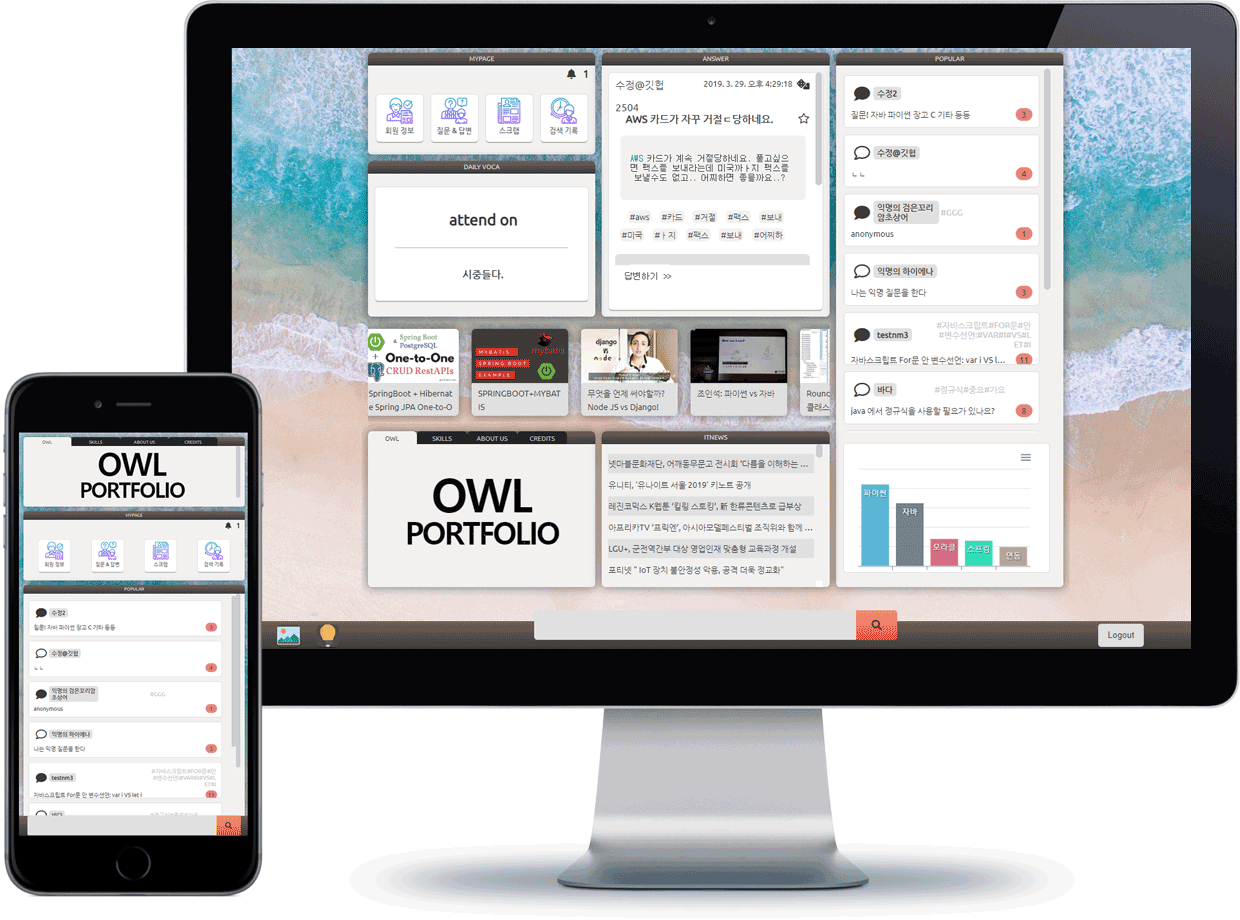
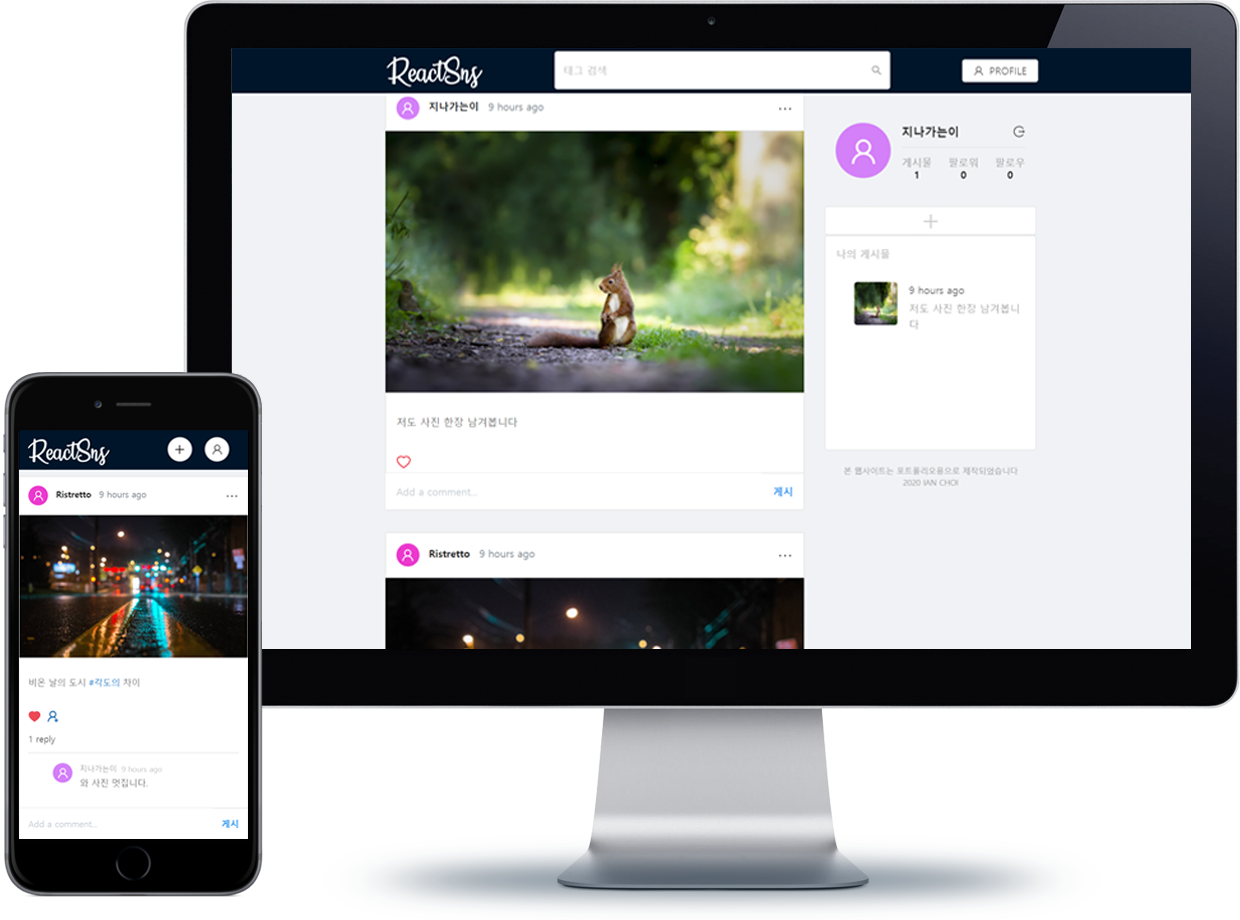
Update : project

diff --git a/index.html b/index.html
@@ -268,7 +268,50 @@
           <div class="project_img project_img1"></div>
           <div class="project_intro project_intro1">
             <div class="project_intro_title">
-              <span class="highlight">01</span>Project OWL
+              <span class="highlight">01</span>React SNS
+            </div>
+            <div class="project_intro_text">
+              <p>
+                심플한 SNS 사이트입니다.<br />
+                이미지 업로드를 비롯한 CRUD가 가능한 SPA입니다.<br />
+              </p>
+              <p>
+                <span>참여 인원</span>1 명<br />
+                <span>개발 기간</span>19.10 ~ 19.12<br />
+              </p>
+              <p>
+                <span class="highlight">Client</span>React, Redux, Next.js<br />
+                <span class="highlight">Server</span>Node.js, Sequelize, MySql,
+                AWS<br />
+              </p>
+              <div class="project_intro_button_box">
+                <div
+                  class="project_intro_button"
+                  onclick="youtube_on('om3f3AuP0Tc')"
+                >
+                  YouTube 보기
+                </div>
+                <div
+                  class="project_intro_button"
+                  onclick="github_on('React-sns')"
+                >
+                  Github 보기
+                </div>
+              </div>
+              <div
+                class="project_intro_button2"
+                onclick="page_on('http://reactsns.net/')"
+              >
+                사이트로 이동
+              </div>
+            </div>
+          </div>
+        </div>
+        <div class="project_container project_container2">
+          <div class="project_img project_img2"></div>
+          <div class="project_intro project_intro2">
+            <div class="project_intro_title">
+              <span class="highlight">02</span>Project OWL
             </div>
             <div class="project_intro_text">
               <p>
@@ -297,49 +340,6 @@
                 >
                   Github 보기
                 </div>
-              </div>
-            </div>
-          </div>
-        </div>
-        <div class="project_container project_container2">
-          <div class="project_img project_img2"></div>
-          <div class="project_intro project_intro2">
-            <div class="project_intro_title">
-              <span class="highlight">02</span>React SNS
-            </div>
-            <div class="project_intro_text">
-              <p>
-                심플한 SNS 사이트입니다.<br />
-                이미지 업로드를 비롯한 CRUD가 가능한 SPA입니다.<br />
-              </p>
-              <p>
-                <span>참여 인원</span>1 명<br />
-                <span>개발 기간</span>19.10 ~ 19.12<br />
-              </p>
-              <p>
-                <span class="highlight">Client</span>React, Redux, Next.js<br />
-                <span class="highlight">Server</span>Node.js, Sequelize, MySql,
-                AWS<br />
-              </p>
-              <div class="project_intro_button_box">
-                <div
-                  class="project_intro_button"
-                  onclick="youtube_on('idJDuzoHI68')"
-                >
-                  YouTube 보기
-                </div>
-                <div
-                  class="project_intro_button"
-                  onclick="github_on('React-sns')"
-                >
-                  Github 보기
-                </div>
-              </div>
-              <div
-                class="project_intro_button2"
-                onclick="page_on('https://animalrun.netlify.com/')"
-              >
-                사이트로 이동
               </div>
             </div>
           </div>

diff --git a/responsive.css b/responsive.css
@@ -197,8 +197,11 @@
   }
   /* .project_img1:hover{background-image: url('./src/portfolio_img/portfolio1_mobile.png')} */
   .project_img2 {
-    background-image: url("./src/portfolio_img/portfolio2.gif");
+    background-image: url("./src/portfolio_img/portfolio2_mobile.png");
     order: 2;
+  }
+  .project_img3 {
+    background-image: url("./src/portfolio_img/portfolio2.gif");
   }
   /* .project_img3{background-image: url('./src/portfolio_img/portfolio2.gif')} */
 

diff --git a/index.css b/index.css
@@ -446,7 +446,7 @@ body * {
 }
 /* .project_img1:hover{background-image: url('./src//portfolio_img//portfolio1_2.png')} */
 .project_img2 {
-  background-image: url("./src/portfolio_img/portfolio1_1.png");
+  background-image: url("./src/portfolio_img/portfolio2_1.png");
   order: 2;
 }
 .project_img3 {
